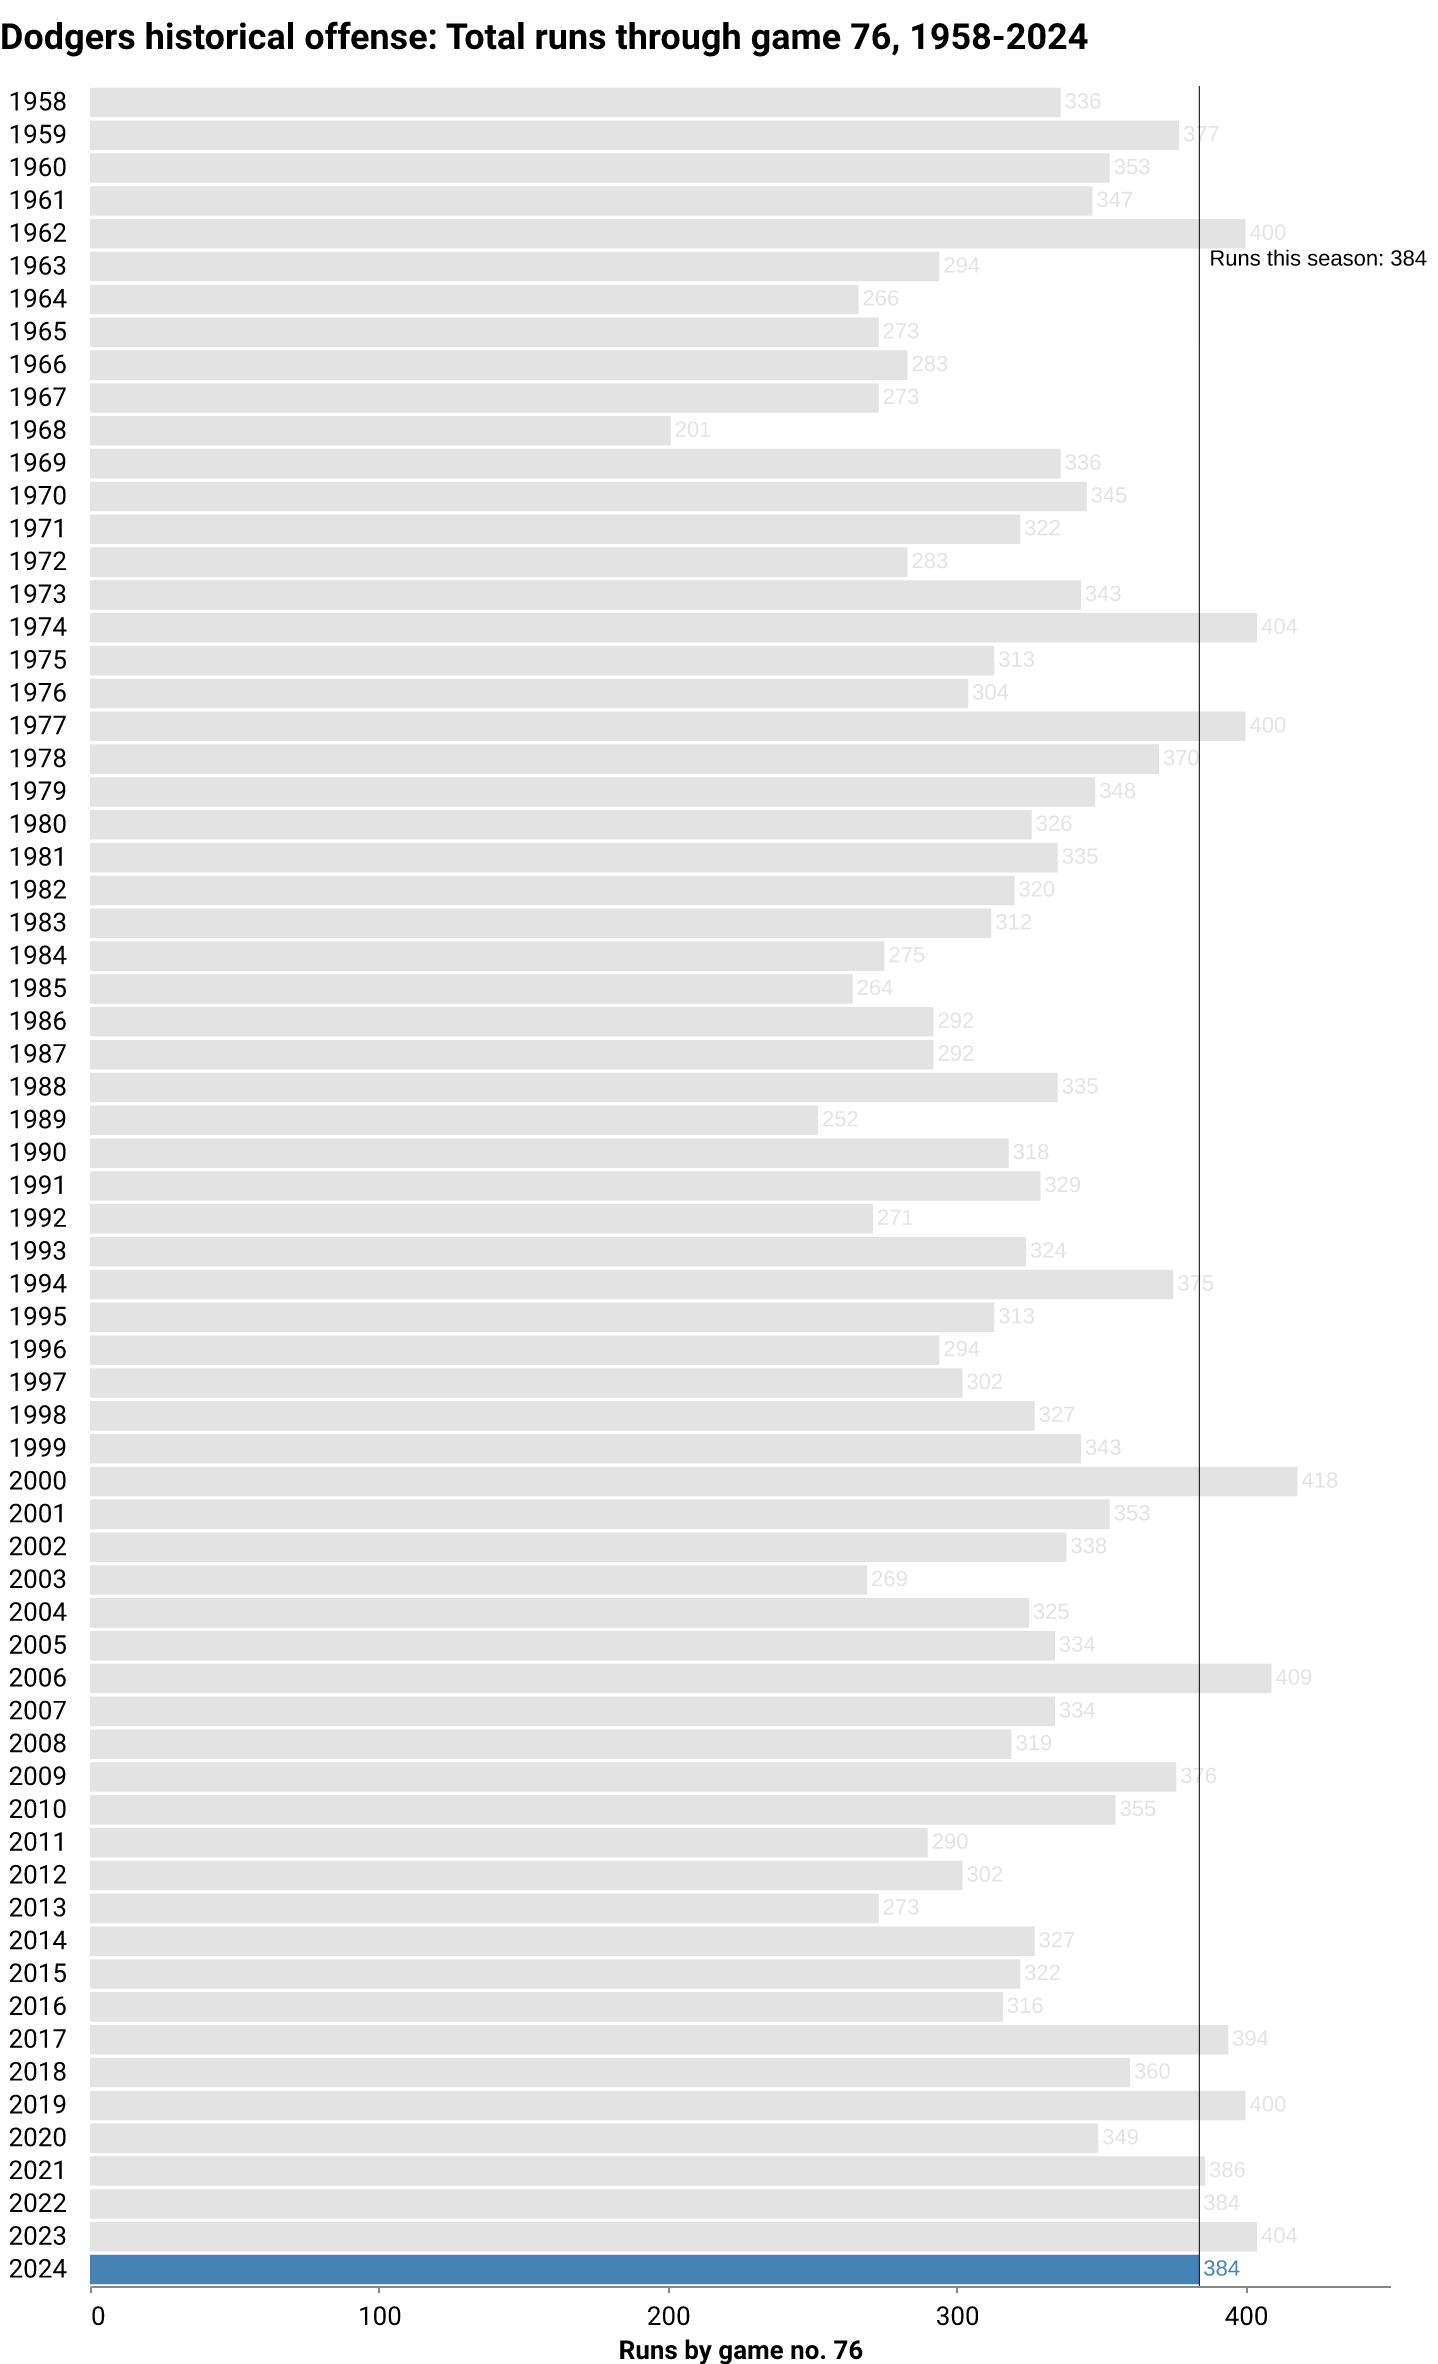
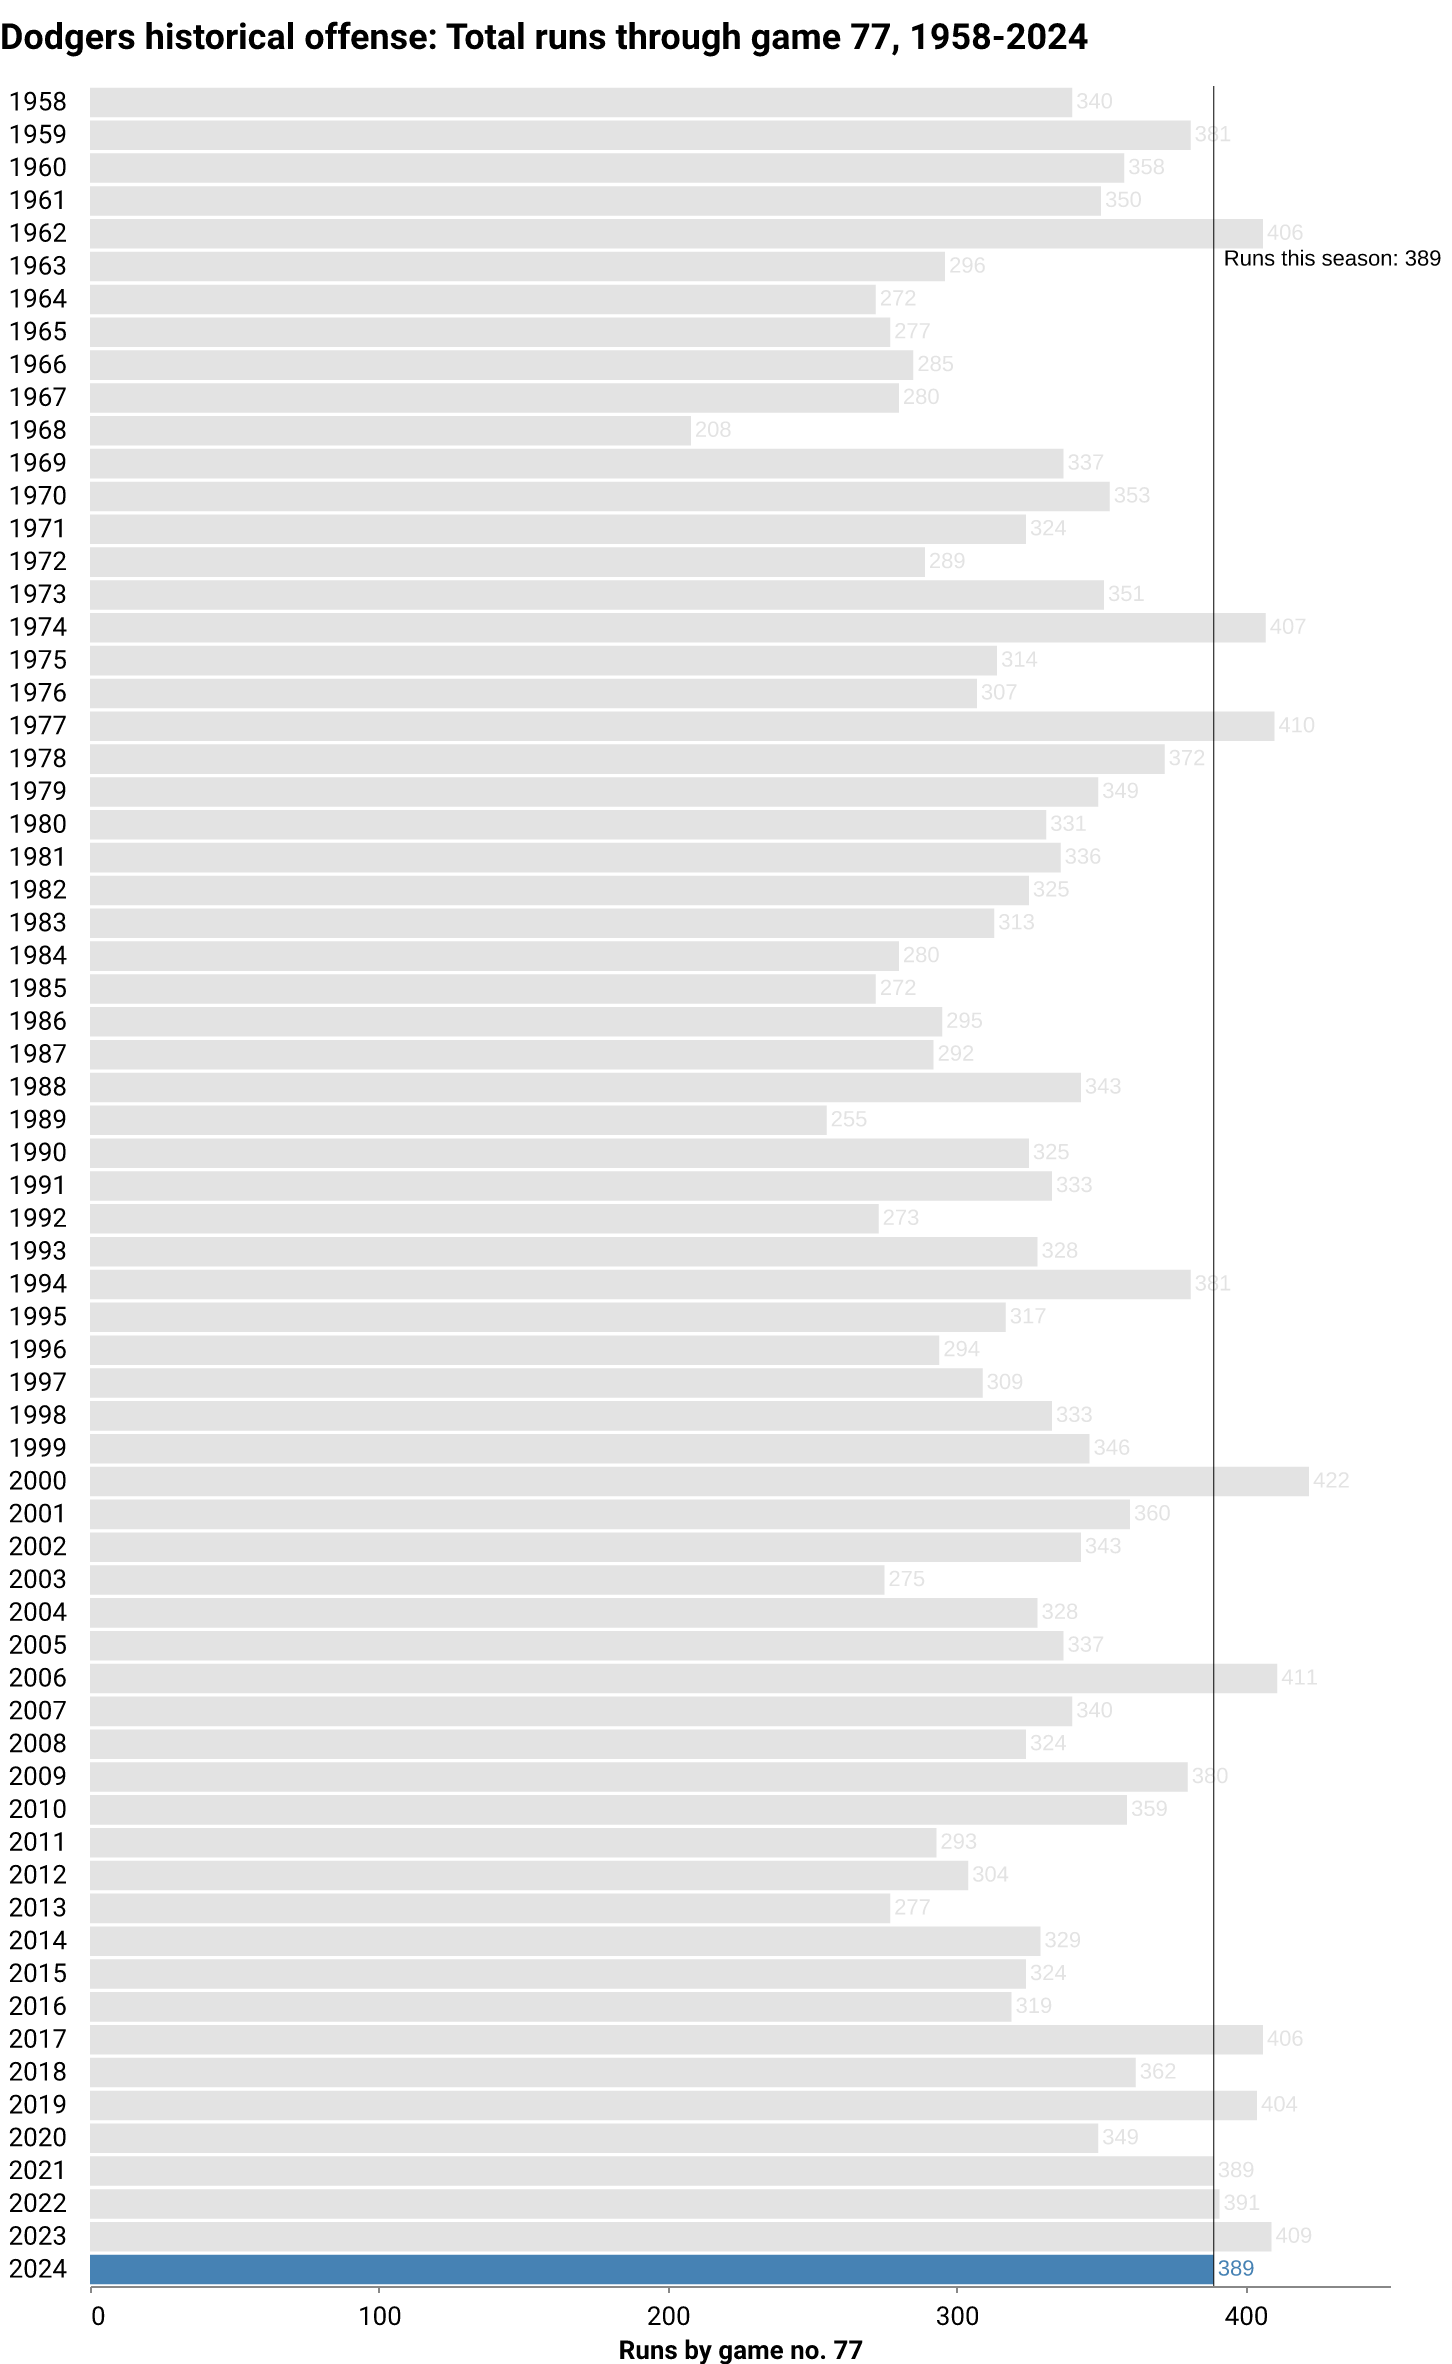
deploy: 58c534284a6c4054c0e7b3b94e6e7cbc478811de

diff --git a/index.html b/index.html
@@ -177,14 +177,14 @@
     
     
     
-        <i class="fa-solid fa-arrow-trend-down" style="color: #ef3e42;"></i>
+        <i class="fa-solid fa-arrow-trend-up" style="color: #005a9c;"></i>
     
 </div>
 <h1 class="headline">How are the Dodgers doing?</h1>
 <p class="subhead">
     
     
-    <span class="highlight">LOS ANGELES</span> <span class="updated">(June 21)</span> — After <span class="highlight">76</span> games this season, the Dodgers are in <span class="highlight">1st</span> place in the National League West division. The team has compiled a <span class="highlight">46-30</span> record, winning <span class="highlight">61%</span> of its games so far. The last game was a <span class="highlight">6-7</span> away <span class="highlight">loss</span> against the Colorado Rockies in front of <span class="highlight">37,503</span> fans. They've won <span class="highlight">5 of the last 10</span>.
+    <span class="highlight">LOS ANGELES</span> <span class="updated">(June 21)</span> — After <span class="highlight">77</span> games this season, the Dodgers are in <span class="highlight">1st</span> place in the National League West division. The team has compiled a <span class="highlight">47-30</span> record, winning <span class="highlight">61%</span> of its games so far. The last game was a <span class="highlight">5-3</span> away <span class="highlight">win</span> against the Colorado Rockies in front of <span class="highlight">40,236</span> fans. They've won <span class="highlight">6 of the last 10</span>.
 </p>
 </div>
 
@@ -206,7 +206,7 @@
             Wins
           </div>
           <div class="card-body">
-            <p class="card-text">46</p>
+            <p class="card-text">47</p>
           </div>
           <div class="card-footer text-muted">
         This point last season: 43
@@ -225,7 +225,7 @@
             <p class="card-text">30</p>
           </div>
           <div class="card-footer text-muted">
-        This point last season: 33
+        This point last season: 34
           </div>
         </div>
       </div>
@@ -238,10 +238,10 @@
             Record
           </div>
           <div class="card-body">
-            <p class="card-text">46-30</p>
+            <p class="card-text">47-30</p>
           </div>
           <div class="card-footer text-muted">
-        This point last season: 43-33
+        This point last season: 43-34
           </div>
         </div>
       </div>
@@ -302,7 +302,7 @@
             Runs
           </div>
           <div class="card-body">
-            <p class="card-text">384</p>
+            <p class="card-text">389</p>
           </div>
           <div class="card-footer text-muted">
         League rank: 1
@@ -318,10 +318,10 @@
             Runs against
           </div>
           <div class="card-body">
-            <p class="card-text">278</p>
+            <p class="card-text">281</p>
           </div>
           <div class="card-footer text-muted">
-        This point last season: 356
+        This point last season: 362
           </div>
         </div>
       </div>
@@ -334,10 +334,10 @@
             Run differential
           </div>
           <div class="card-body">
-            <p class="card-text">106</p>
+            <p class="card-text">108</p>
           </div>
           <div class="card-footer text-muted">
-        This point last season: 48
+        This point last season: 47
           </div>
         </div>
       </div>
@@ -408,7 +408,7 @@
             Batting average
           </div>
           <div class="card-body">
-            <p class="card-text">.257</p>
+            <p class="card-text">.258</p>
           </div>
           <div class="card-footer text-muted">
         Last decade average: .253
@@ -424,7 +424,7 @@
             Home runs
           </div>
           <div class="card-body">
-            <p class="card-text">102</p>
+            <p class="card-text">105</p>
           </div>
           <div class="card-footer text-muted">
         League rank: 1
@@ -440,7 +440,7 @@
             Home runs/game
           </div>
           <div class="card-body">
-            <p class="card-text">1.34</p>
+            <p class="card-text">1.36</p>
           </div>
           <div class="card-footer text-muted">
         Last decade average: 1.36
@@ -472,7 +472,7 @@
             Stolen bases
           </div>
           <div class="card-body">
-            <p class="card-text">45</p>
+            <p class="card-text">47</p>
           </div>
           <div class="card-footer text-muted">
         League rank: 8
@@ -488,7 +488,7 @@
             Stolen bases/game
           </div>
           <div class="card-body">
-            <p class="card-text">0.59</p>
+            <p class="card-text">0.61</p>
           </div>
           <div class="card-footer text-muted">
         Rate all last season: 0.65
@@ -598,10 +598,10 @@
             Strikeouts
           </div>
           <div class="card-body">
-            <p class="card-text">649</p>
+            <p class="card-text">662</p>
           </div>
           <div class="card-footer text-muted">
-        League rank: 4
+        League rank: 3
           </div>
         </div>
       </div>
@@ -614,10 +614,10 @@
             Walks
           </div>
           <div class="card-body">
-            <p class="card-text">224</p>
+            <p class="card-text">226</p>
           </div>
           <div class="card-footer text-muted">
-        League rank: 5
+        League rank: 7
           </div>
         </div>
       </div>
@@ -630,7 +630,7 @@
             ERA
           </div>
           <div class="card-body">
-            <p class="card-text">3.40</p>
+            <p class="card-text">3.39</p>
           </div>
           <div class="card-footer text-muted">
         League rank: 2
@@ -708,7 +708,7 @@
     </div>
 </div>
 
-  <p class="dated">Notes: Last updated June 21, 2024, 12:04 AM PT. More <a href="https://github.com/stiles/dodgers/blob/main/README.md">about the data</a>.</p>
+  <p class="dated">Notes: Last updated June 21, 2024, 4:03 AM PT. More <a href="https://github.com/stiles/dodgers/blob/main/README.md">about the data</a>.</p>
   
 </div>
 
